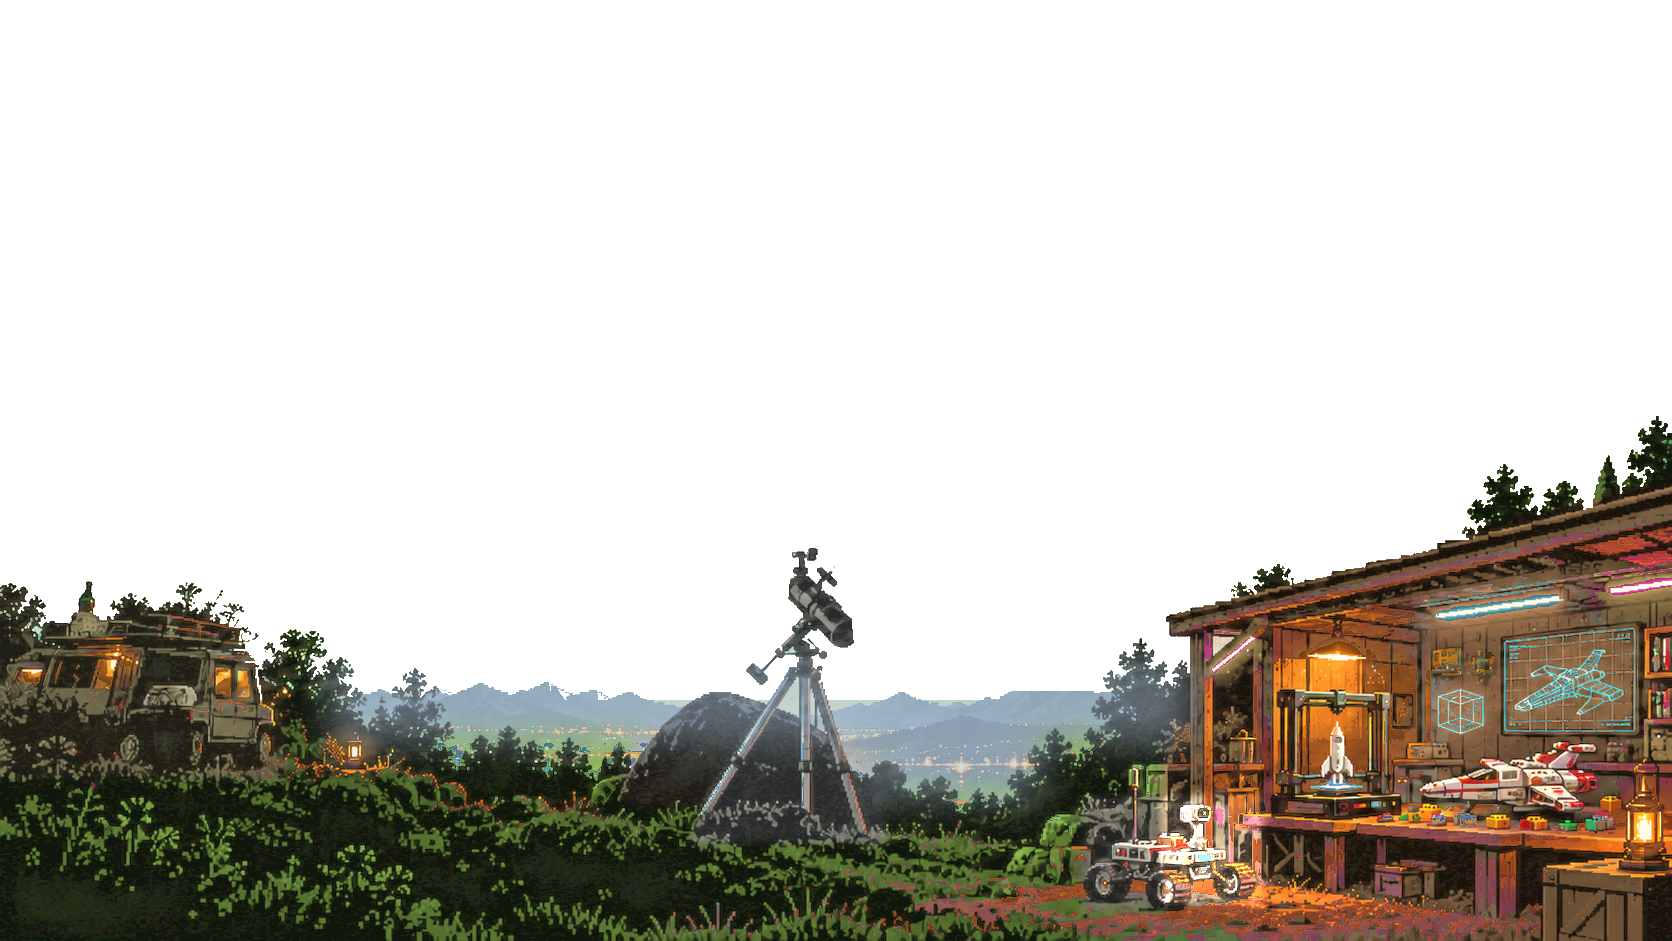
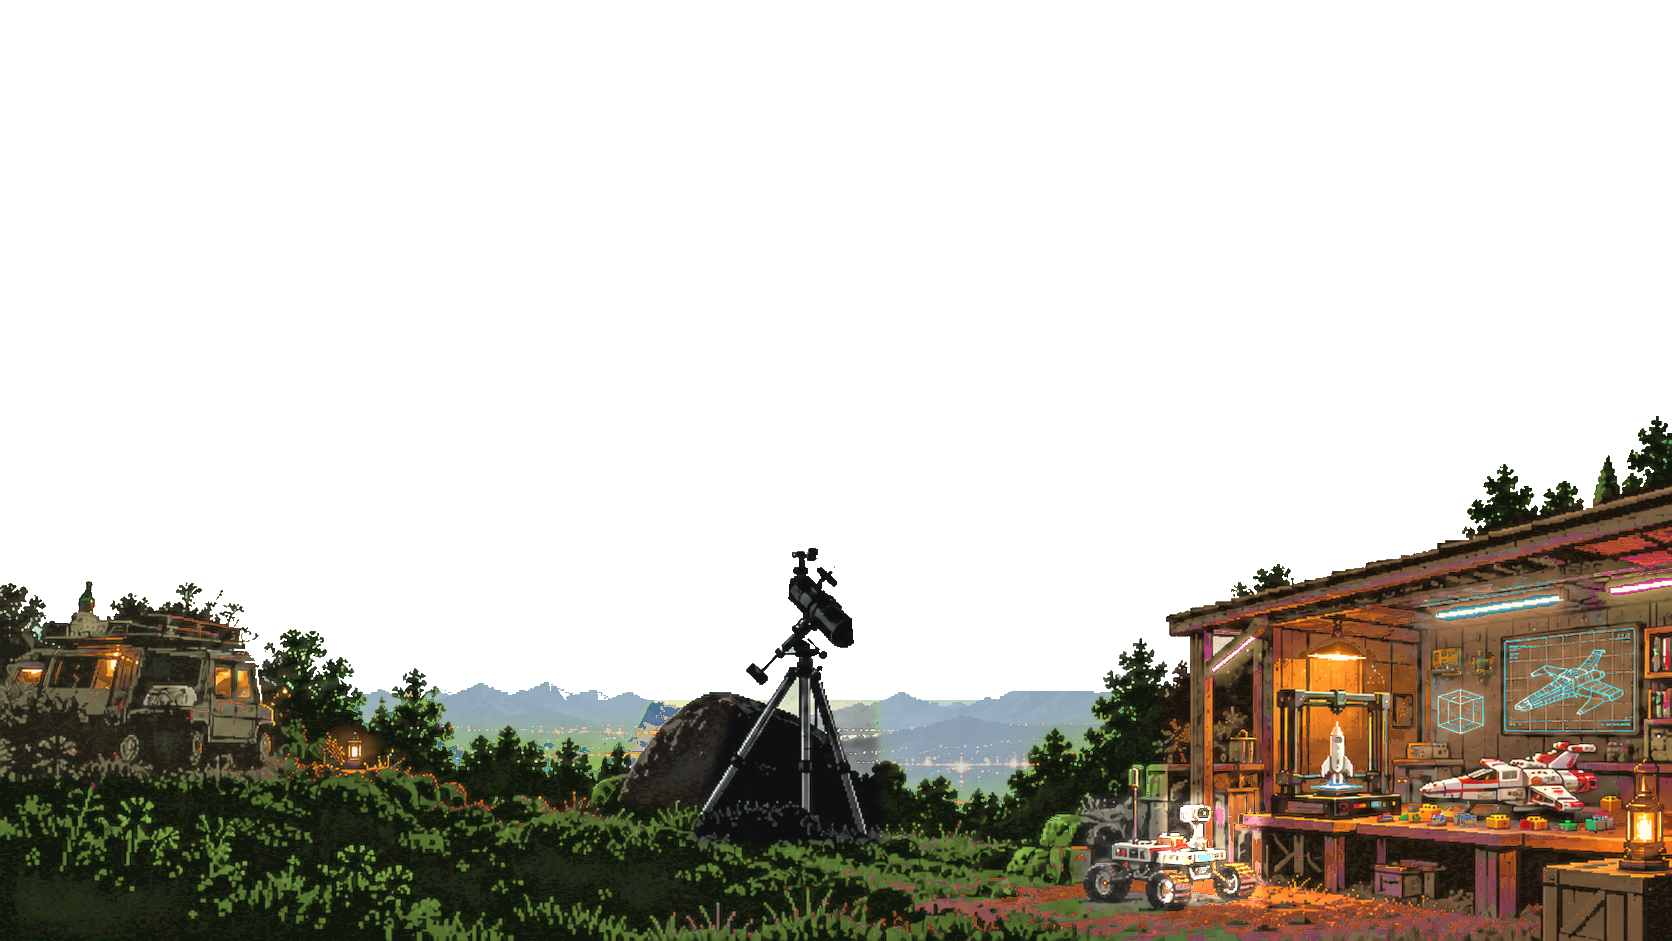
Fix the telescope by day
The day and golden plates no longer put distant haze on near things
(tree silhouettes, the rock, the telescope), which had washed the rock
and tripod out with a hard pale edge. The telescope keeps a dark
anodised tube with metal highlights instead of a muddy grey, and no
moonlit blue glints by day. The tracker controller is strapped to the
tripod's centre column.

Claude-Session: https://claude.ai/code/session_01H38SDAYbNqVbsFNnKm14eE

Changed region(s): [[0.3732, 0.5855, 0.7464, 0.8937], [0.1866, 0.7088, 0.3421, 0.8013]]

diff --git a/scripts/build_day_art.py b/scripts/build_day_art.py
@@ -31,12 +31,14 @@ DISTANCE_FEATHER = 18
 
 # (hue for moonlit blues, saturation gain, saturation cap, shadow floor rgb) per region.
 MATERIALS = dict(vegetation=(86, .85, .6, (.06, .085, .045)),
-                 telescope=(40, .12, .08, (.16, .17, .18)),
+                 telescope=(215, .2, .1, (.05, .055, .065)),
                  van=(48, .45, .32, (.12, .12, .09)),
                  workshop=(30, .7, .5, (.10, .075, .05)),
                  rover=(40, .2, .15, (.14, .14, .14)),
                  rock=(34, .25, .16, (.11, .105, .095)))
 DRY_VEGETATION = (38, .9, .5, (.1, .08, .04))   # straw and dust for the dry seasons
+TELESCOPE_GAMMA = .9     # the tube is black anodised metal: kept dark by day, highlights only
+NEAR_LUMINANCE = 24      # night-plate pixels darker than this are near silhouettes (trees, rock), never distant haze
 
 # (gamma, exposure, final rgb multiplier, haze rgb, haze share in the far band)
 GRADES = dict(day=(.5, 1.0, (1.0, 1.0, .95), (.66, .74, .84), .55),
@@ -101,16 +103,22 @@ def build(grade):
     for name, (hue, gain, cap, floor) in materials.items():
         hue_map = np.where(cool, hue+(h-245)*.12, h)
         sat_map = np.where(cool, np.minimum(s*gain, cap), np.minimum(s, .75))
-        relit = _rgb(hue_map, sat_map, lifted)
+        light = np.clip(exposure*v**TELESCOPE_GAMMA, 0, 1) if name == 'telescope' else lifted
+        relit = _rgb(hue_map, np.minimum(sat_map, cap) if name == 'telescope' else sat_map, light)
         floor = np.array(floor)
         out += weights[name][..., None]*(floor+relit*(1-floor))
 
-    # The far band keeps its own blue and fades into haze; its city lights are off by day.
-    far = _weight(DISTANCE, DISTANCE_FEATHER)
+    # The far band keeps its own blue and fades into haze; its city lights are off by day. Near things inside the
+    # band (tree silhouettes, the rock, the telescope) are not distant and get no haze.
+    lum = Image.open(scene.ASSETS/'observatory-background.png').convert('L')
+    near = lum.point(lambda value: 255 if value < NEAR_LUMINANCE else 0)
+    near = near.filter(ImageFilter.MaxFilter(5)).filter(ImageFilter.MinFilter(5)).filter(ImageFilter.GaussianBlur(2))
+    near = np.maximum(np.asarray(near, float)/255, np.maximum(weights['telescope'], weights['rock']))
+    far = _weight(DISTANCE, DISTANCE_FEATHER)*(1-near)
     distant = np.array(haze)*haze_share+_rgb(h, np.minimum(s*.5, .3), lifted)*(1-haze_share)
     out = out*(1-far[..., None])+distant*far[..., None]
     out = out*np.array(multiplier)
-    keep = (emissive & (far < .5))[..., None]
+    keep = (emissive & (far < .5) & (weights['telescope'] < .5))[..., None]   # no moonlit glints on the tube by day
     out = np.where(keep, plate*.65+out*.35, out)
     ground = _ground()
     alpha = ground.astype(float)

diff --git a/scripts/build_animation.py b/scripts/build_animation.py
@@ -1821,7 +1821,9 @@ def tracker_controller(t, animated, light):
     box = _outdoor(light, (26, 30, 38), (84, 90, 100))
     edge = _mix(box, (255, 255, 255), .25)
     step = Track([1, 1, .15, .15, 1], [0, .45, .5, .95, 1], 2)
-    return (f'<g data-portfolio="tracker"><path d="{_boxes([(x, y, w, h)])}" fill="{_rgb(box)}"/>'
+    clamp = [(x+w, y+5, PROTECTED['centre_column'][0]-x-w+2, 3)]   # strap onto the tripod's centre column
+    return (f'<g data-portfolio="tracker"><path d="{_boxes(clamp)}" fill="{_rgb(_mix(box, (0, 0, 0), .3))}"/>'
+            f'<path d="{_boxes([(x, y, w, h)])}" fill="{_rgb(box)}"/>'
             f'<path d="{_boxes([(x, y, w, 2), (x+w, y+4, 2, 2)])}" fill="{_rgb(edge)}"/>'
             f'<path d="{_boxes([(x+3, y+4, 4, 4)])}" fill="#38ff7a"/>'
             f'<rect x="{x+10}" y="{y+4}" width="4" height="4" fill="#ff4a3b" opacity="{step.value_text(t)}">'
